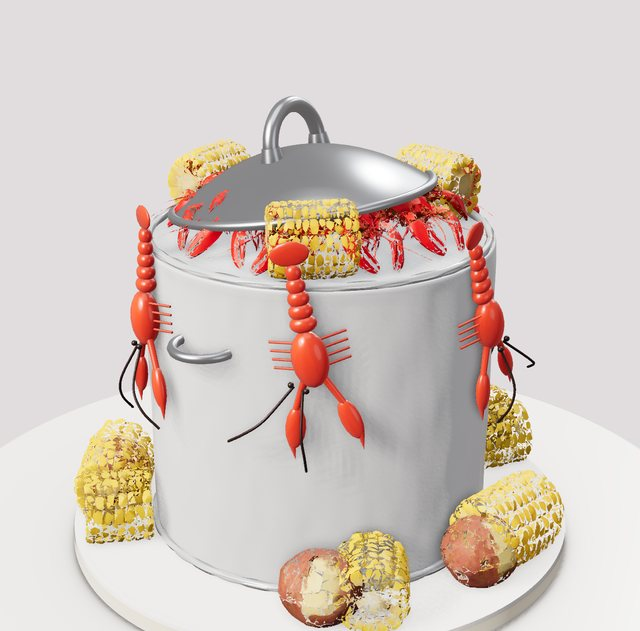
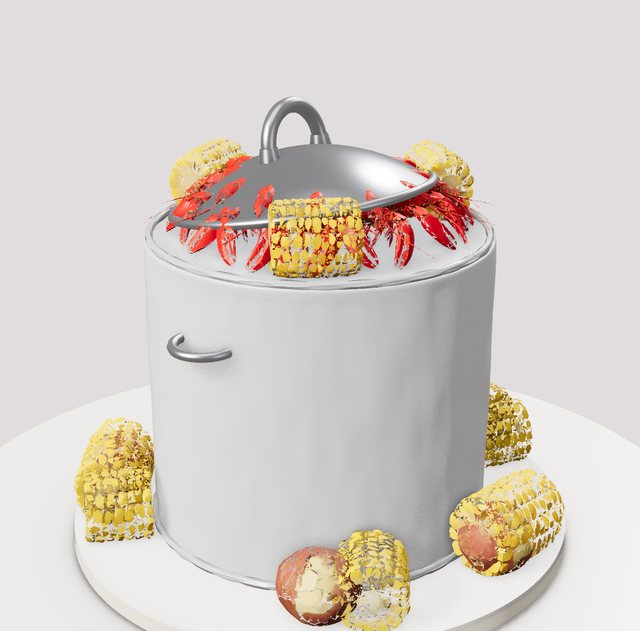
Cow face fills the front, black striped movie base, bigger bee face, crawfish spilling from the pot rim
Claude-Session: https://claude.ai/code/session_016sN14hzH19WJ5zrp8o2QGp

diff --git a/studio.html b/studio.html
@@ -1666,7 +1666,7 @@ THEMES.unshift(
   newTier(7.6,5.8,{color:'#7cc8b8',finish:'fondant',top:'none',bottom:'none',decor:[DC('glitterspheres','cascade',5,{color:'#b0825f',rot:-88,size:378}),DC('glitterspheres','cascade',4,{color:'#f3ead8',rot:-82,size:391}),DC('spheres','cascade',3,{color:'#5fb3a3',rot:-94,size:364}),DC('glitterspheres','cascade',3,{color:'#8c6a52',rot:-88,size:283})]}),
   newTier(6.6,5.6,{color:'#7cc8b8',finish:'fondant',top:'none',bottom:'none',decor:[DC('glitterspheres','cascade',5,{color:'#b0825f',rot:-88,size:364}),DC('glitterspheres','cascade',4,{color:'#f3ead8',rot:-82,size:378}),DC('spheres','cascade',3,{color:'#5fb3a3',rot:-94,size:351}),DC('sprinkles','cascade',220,{mix:['#5fb3a3','#d4ae5a','#c9ccd2','#fbf7f1'],rot:30})]})]}},
  {key:'sig_cow',name:'Pink Bow Cow',tag:SIG,blurb:'A white cow cake with black spots, big cartoon eyes, a pink muzzle with a wide open grin, floppy pink-lined ears, black horns and pink bows.',d:{board:'white',boardColor:'#fbf7f1',topper:'none',tiers:[
-  newTier(8,6.2,{color:'#ffffff',finish:'fondant',print:'cow',printColor:'#1d1b1f',top:'none',bottom:'none',decor:[DC('cowface','band',1,{color:'#f3b6c8',size:300,R:4,rot:55,y:.3}),DC('cowear','band',1,{color:'#f3b6c8',size:200,rot:-25,y:2.6}),DC('cowear','band',1,{color:'#f3b6c8',size:200,rot:135,y:2.6}),DC('cowtop','cluster',1,{color:'#f3a6c0',size:190,center:true,face:95})]})]}},
+  newTier(8,6.2,{color:'#ffffff',finish:'fondant',print:'cow',printColor:'#1d1b1f',top:'none',bottom:'none',decor:[DC('cowface','band',1,{color:'#f3b6c8',size:410,R:4,rot:55,y:.1}),DC('cowear','band',1,{color:'#f3b6c8',size:200,rot:-25,y:2.6}),DC('cowear','band',1,{color:'#f3b6c8',size:200,rot:135,y:2.6}),DC('cowtop','cluster',1,{color:'#f3a6c0',size:190,center:true,face:95})]})]}},
  {key:'sig_pillows',name:'Gold Trim Pillows',tag:SIG,blurb:'A pillow cake: a base pillow trimmed in gold with a ring of ivory roses, a puffy pleated pillow with pinched corners and gold tassels, and a silver rose dome topped with ivory roses.',d:{board:'silver',boardShape:'square',topper:'none',tiers:[
   newTier(10,3.6,{shape:'square',color:'#fbf7f1',finish:'fondant',texture:'smooth',prof:'pillow',top:'rope',pipe:'#d4ae5a',bottom:'rope',bottomColor:'#d4ae5a',decor:[DC('roses','band',16,{color:'#fbf7f1',size:270,y:-1})]}),
   newTier(7.5,3.2,{shape:'square',color:'#fbf7f1',finish:'fondant',texture:'ruffle',prof:'pillow',top:'rope',pipe:'#fbf7f1',bottom:'scrolls',bottomColor:'#d4ae5a',decor:[DC('mx_tassel','band',4,{size:190,rot:45,y:.3})]}),
@@ -1692,13 +1692,13 @@ THEMES.unshift(
  {key:'sig_blocks',name:'Building Block Number',tag:SIG,blurb:'A sunny yellow number 6 with a blue window, a mosaic wall of toy bricks around the side, rainbow sprinkles and bricks on top.',d:{cakeType:'number',number:{text:'6',height:13,layers:3,cake:'vanilla',cream:'#f6c919',style:'frosted',wall:['#e8475f','#2f6fd0','#f2c230','#5cc06c','#2f6fd0','#e8475f','#2a7a3a'],wallH:.95,holeFill:'#2f6fd0'},board:'white',boardTint:'#34405e',numBoard:'round',topper:'none',tiers:[
   newTier(8,4,{decor:[DC('bricks','cluster',11,{size:280,mix:['#e8475f','#2f6fd0','#5cc06c']}),DC('sprinkles','cluster',520,{mix:['#e8475f','#2f6fd0','#5cc06c','#f28a3a','#fbf7f1']})]})]}},
  {key:'sig_movie',name:'Movie Night Popcorn',tag:SIG,blurb:'A red and white striped popcorn tier overflowing with popcorn and a "13" Admit One ticket, over a black and white chevron clapperboard tier with stars.',d:{board:'gold',topper:'none',tiers:[
-  newTier(11,4.8,{color:'#fbf7f1',finish:'fondant',top:'none',bottom:'none',stencil:{pattern:'chevron',color:'#1d1b1f',size:1.4,height:4.6},decor:[DC('plaque','band',1,{color:'#1d1b1f',size:270,R:5.5,rot:55,y:.3}),DC('mx_clapperboard','band',1,{size:320,rot:5}),DC('stars','scatter',14,{mix:['#f38ab0','#5fc8d8','#f2c230'],size:210}),DC('dragees','scatter',20,{color:'#f2c230',size:140})]}),
+  newTier(11,4.8,{color:'#1d1b1f',finish:'fondant',top:'pearls',pipe:'#fbf7f1',bottom:'none',stencil:{pattern:'chevron',color:'#fbf7f1',size:2.2,height:4.6},decor:[DC('plaque','band',1,{color:'#1d1b1f',size:270,R:5.5,rot:55,y:.3}),DC('mx_clapperboard','band',1,{size:320,rot:5}),DC('stars','scatter',14,{mix:['#f38ab0','#5fc8d8','#f2c230'],size:210}),DC('dragees','scatter',20,{color:'#f2c230',size:140})]}),
   newTier(7.8,8.4,{color:'#fbf7f1',finish:'fondant',prof:'bucket',stencil:{pattern:'stripes',color:'#d62839',size:1.3,height:8.2},top:'rope',pipe:'#fbf7f1',bottom:'none',decor:[DC('poplabel','band',1,{color:'#d62839',size:200,R:3.7,rot:55,y:.6}),DC('popcorn','cluster',120,{color:'#f8efd4',size:260}),DC('mx_ticket','cluster',1,{size:480,center:true,face:55}),DC('stars','cluster',5,{mix:['#f38ab0','#5fc8d8','#f2c230'],size:240})]})]}},
  {key:'sig_crawfish',name:'Crawfish Boil Pot',tag:SIG,blurb:'A brushed silver stock pot cake with a tilted lid and loop handles, spilling over with crawfish and corn, with potatoes and corn on the board.',d:{board:'white',boardColor:'#ece5d3',topper:'none',tiers:[
-  newTier(8,7,{color:'#c4c8ce',finish:'fondant',texture:'brushed',top:'rope',pipe:'#aeb2b8',bottom:'rope',bottomColor:'#aeb2b8',decor:[DC('pothandle','band',2,{color:'#c9ccd2',size:160,y:2,rot:95}),DC('potlid2','cluster',1,{color:'#c9ccd2',size:300,center:true}),DC('mx_crawfish','crown',9,{size:340}),DC('mx_corn_cob','crown',3,{size:190,rot:60}),DC('crawhang','band',6,{color:'#d2381e',size:240,y:2.2}),DC('mx_corn_round','cluster',3,{size:170,where:'board',seed:3}),DC('mx_corn_cob','cluster',3,{size:230,where:'board',seed:9}),DC('mx_potato','cluster',5,{size:180,where:'board'})]})]}},
+  newTier(8,7,{color:'#c4c8ce',finish:'fondant',texture:'brushed',top:'rope',pipe:'#aeb2b8',bottom:'rope',bottomColor:'#aeb2b8',decor:[DC('pothandle','band',2,{color:'#c9ccd2',size:160,y:2,rot:95}),DC('potlid2','cluster',1,{color:'#c9ccd2',size:300,center:true}),DC('mx_crawfish','crown',12,{size:380}),DC('mx_corn_cob','crown',3,{size:190,rot:60}),DC('mx_corn_round','cluster',3,{size:170,where:'board',seed:3}),DC('mx_corn_cob','cluster',3,{size:230,where:'board',seed:9}),DC('mx_potato','cluster',5,{size:180,where:'board'})]})]}},
  {key:'sig_bee',name:'Bumble Bee Garden',tag:SIG,blurb:'A fuzzy black piped bee dome with a big round yellow face, googly eyes and a smile, swirl wings and curly antennae, in a garden of piped grass and sugar flowers.',d:{board:'white',boardColor:'#c9d96a',topper:'none',tiers:[
   newTier(13,1.4,{color:'#5cae4a',texture:'grass',top:'none',bottom:'none',decor:[DC('daisies','scatter',12,{color:'#fbf7f1',size:130}),DC('blossoms','scatter',18,{mix:['#f3a6c0','#f2c230','#7fb0e8','#e8475f'],size:130})]}),
-  newTier(10,6,{color:'#1d1b1f',texture:'grass',furLen:150,prof:'half',top:'none',bottom:'none',decor:[DC('beeface','band',1,{color:'#ffd21f',size:370,R:4.3,rot:55,y:-.3}),DC('beetop','cluster',1,{color:'#ffd21f',size:260,center:true,face:95})]})]}},
+  newTier(10,6,{color:'#1d1b1f',texture:'grass',furLen:150,prof:'half',top:'none',bottom:'none',decor:[DC('beeface','band',1,{color:'#ffd21f',size:405,R:4.3,rot:55,y:-.15}),DC('beetop','cluster',1,{color:'#ffd21f',size:260,center:true,face:95})]})]}},
  {key:'sig_moneybag',name:'Money Bag Birthday',tag:SIG,blurb:'A red money bag cake gathered up like a real sack, tied at the neck with a thick black rope knot and hanging ties, a big gold dollar sign, and cash and gold dollar signs spilling out of the ruffled opening.',d:{board:'white',boardColor:'#e9eaec',topper:'none',tiers:[
   newTier(9.4,7.4,{color:'#b5321f',finish:'royal',prof:'sack',texture:'gathers',top:'none',bottom:'none',decor:[DC('dollarface','band',1,{color:'#d4ae5a',size:320,R:4.7,rot:55,y:-.5}),DC('mx_cash_bundle','cluster',2,{size:320,where:'board',seed:6})]}),
   newTier(4.2,1,{color:'#a82e1c',finish:'royal',texture:'gathers',gFull:true,top:'rope',pipe:'#1d1b1f',bottom:'rope',bottomColor:'#1d1b1f',decor:[DC('ropeknot','band',1,{color:'#1d1b1f',size:200,rot:92,y:.1})]}),

diff --git a/tools/signature-decor.js b/tools/signature-decor.js
@@ -331,7 +331,7 @@ THEMES.unshift(
   newTier(7.6,5.8,{color:'#7cc8b8',finish:'fondant',top:'none',bottom:'none',decor:[DC('glitterspheres','cascade',5,{color:'#b0825f',rot:-88,size:378}),DC('glitterspheres','cascade',4,{color:'#f3ead8',rot:-82,size:391}),DC('spheres','cascade',3,{color:'#5fb3a3',rot:-94,size:364}),DC('glitterspheres','cascade',3,{color:'#8c6a52',rot:-88,size:283})]}),
   newTier(6.6,5.6,{color:'#7cc8b8',finish:'fondant',top:'none',bottom:'none',decor:[DC('glitterspheres','cascade',5,{color:'#b0825f',rot:-88,size:364}),DC('glitterspheres','cascade',4,{color:'#f3ead8',rot:-82,size:378}),DC('spheres','cascade',3,{color:'#5fb3a3',rot:-94,size:351}),DC('sprinkles','cascade',220,{mix:['#5fb3a3','#d4ae5a','#c9ccd2','#fbf7f1'],rot:30})]})]}},
  {key:'sig_cow',name:'Pink Bow Cow',tag:SIG,blurb:'A white cow cake with black spots, big cartoon eyes, a pink muzzle with a wide open grin, floppy pink-lined ears, black horns and pink bows.',d:{board:'white',boardColor:'#fbf7f1',topper:'none',tiers:[
-  newTier(8,6.2,{color:'#ffffff',finish:'fondant',print:'cow',printColor:'#1d1b1f',top:'none',bottom:'none',decor:[DC('cowface','band',1,{color:'#f3b6c8',size:300,R:4,rot:55,y:.3}),DC('cowear','band',1,{color:'#f3b6c8',size:200,rot:-25,y:2.6}),DC('cowear','band',1,{color:'#f3b6c8',size:200,rot:135,y:2.6}),DC('cowtop','cluster',1,{color:'#f3a6c0',size:190,center:true,face:95})]})]}},
+  newTier(8,6.2,{color:'#ffffff',finish:'fondant',print:'cow',printColor:'#1d1b1f',top:'none',bottom:'none',decor:[DC('cowface','band',1,{color:'#f3b6c8',size:410,R:4,rot:55,y:.1}),DC('cowear','band',1,{color:'#f3b6c8',size:200,rot:-25,y:2.6}),DC('cowear','band',1,{color:'#f3b6c8',size:200,rot:135,y:2.6}),DC('cowtop','cluster',1,{color:'#f3a6c0',size:190,center:true,face:95})]})]}},
  {key:'sig_pillows',name:'Gold Trim Pillows',tag:SIG,blurb:'A pillow cake: a base pillow trimmed in gold with a ring of ivory roses, a puffy pleated pillow with pinched corners and gold tassels, and a silver rose dome topped with ivory roses.',d:{board:'silver',boardShape:'square',topper:'none',tiers:[
   newTier(10,3.6,{shape:'square',color:'#fbf7f1',finish:'fondant',texture:'smooth',prof:'pillow',top:'rope',pipe:'#d4ae5a',bottom:'rope',bottomColor:'#d4ae5a',decor:[DC('roses','band',16,{color:'#fbf7f1',size:270,y:-1})]}),
   newTier(7.5,3.2,{shape:'square',color:'#fbf7f1',finish:'fondant',texture:'ruffle',prof:'pillow',top:'rope',pipe:'#fbf7f1',bottom:'scrolls',bottomColor:'#d4ae5a',decor:[DC('mx_tassel','band',4,{size:190,rot:45,y:.3})]}),
@@ -357,13 +357,13 @@ THEMES.unshift(
  {key:'sig_blocks',name:'Building Block Number',tag:SIG,blurb:'A sunny yellow number 6 with a blue window, a mosaic wall of toy bricks around the side, rainbow sprinkles and bricks on top.',d:{cakeType:'number',number:{text:'6',height:13,layers:3,cake:'vanilla',cream:'#f6c919',style:'frosted',wall:['#e8475f','#2f6fd0','#f2c230','#5cc06c','#2f6fd0','#e8475f','#2a7a3a'],wallH:.95,holeFill:'#2f6fd0'},board:'white',boardTint:'#34405e',numBoard:'round',topper:'none',tiers:[
   newTier(8,4,{decor:[DC('bricks','cluster',11,{size:280,mix:['#e8475f','#2f6fd0','#5cc06c']}),DC('sprinkles','cluster',520,{mix:['#e8475f','#2f6fd0','#5cc06c','#f28a3a','#fbf7f1']})]})]}},
  {key:'sig_movie',name:'Movie Night Popcorn',tag:SIG,blurb:'A red and white striped popcorn tier overflowing with popcorn and a "13" Admit One ticket, over a black and white chevron clapperboard tier with stars.',d:{board:'gold',topper:'none',tiers:[
-  newTier(11,4.8,{color:'#fbf7f1',finish:'fondant',top:'none',bottom:'none',stencil:{pattern:'chevron',color:'#1d1b1f',size:1.4,height:4.6},decor:[DC('plaque','band',1,{color:'#1d1b1f',size:270,R:5.5,rot:55,y:.3}),DC('mx_clapperboard','band',1,{size:320,rot:5}),DC('stars','scatter',14,{mix:['#f38ab0','#5fc8d8','#f2c230'],size:210}),DC('dragees','scatter',20,{color:'#f2c230',size:140})]}),
+  newTier(11,4.8,{color:'#1d1b1f',finish:'fondant',top:'pearls',pipe:'#fbf7f1',bottom:'none',stencil:{pattern:'chevron',color:'#fbf7f1',size:2.2,height:4.6},decor:[DC('plaque','band',1,{color:'#1d1b1f',size:270,R:5.5,rot:55,y:.3}),DC('mx_clapperboard','band',1,{size:320,rot:5}),DC('stars','scatter',14,{mix:['#f38ab0','#5fc8d8','#f2c230'],size:210}),DC('dragees','scatter',20,{color:'#f2c230',size:140})]}),
   newTier(7.8,8.4,{color:'#fbf7f1',finish:'fondant',prof:'bucket',stencil:{pattern:'stripes',color:'#d62839',size:1.3,height:8.2},top:'rope',pipe:'#fbf7f1',bottom:'none',decor:[DC('poplabel','band',1,{color:'#d62839',size:200,R:3.7,rot:55,y:.6}),DC('popcorn','cluster',120,{color:'#f8efd4',size:260}),DC('mx_ticket','cluster',1,{size:480,center:true,face:55}),DC('stars','cluster',5,{mix:['#f38ab0','#5fc8d8','#f2c230'],size:240})]})]}},
  {key:'sig_crawfish',name:'Crawfish Boil Pot',tag:SIG,blurb:'A brushed silver stock pot cake with a tilted lid and loop handles, spilling over with crawfish and corn, with potatoes and corn on the board.',d:{board:'white',boardColor:'#ece5d3',topper:'none',tiers:[
-  newTier(8,7,{color:'#c4c8ce',finish:'fondant',texture:'brushed',top:'rope',pipe:'#aeb2b8',bottom:'rope',bottomColor:'#aeb2b8',decor:[DC('pothandle','band',2,{color:'#c9ccd2',size:160,y:2,rot:95}),DC('potlid2','cluster',1,{color:'#c9ccd2',size:300,center:true}),DC('mx_crawfish','crown',9,{size:340}),DC('mx_corn_cob','crown',3,{size:190,rot:60}),DC('crawhang','band',6,{color:'#d2381e',size:240,y:2.2}),DC('mx_corn_round','cluster',3,{size:170,where:'board',seed:3}),DC('mx_corn_cob','cluster',3,{size:230,where:'board',seed:9}),DC('mx_potato','cluster',5,{size:180,where:'board'})]})]}},
+  newTier(8,7,{color:'#c4c8ce',finish:'fondant',texture:'brushed',top:'rope',pipe:'#aeb2b8',bottom:'rope',bottomColor:'#aeb2b8',decor:[DC('pothandle','band',2,{color:'#c9ccd2',size:160,y:2,rot:95}),DC('potlid2','cluster',1,{color:'#c9ccd2',size:300,center:true}),DC('mx_crawfish','crown',12,{size:380}),DC('mx_corn_cob','crown',3,{size:190,rot:60}),DC('mx_corn_round','cluster',3,{size:170,where:'board',seed:3}),DC('mx_corn_cob','cluster',3,{size:230,where:'board',seed:9}),DC('mx_potato','cluster',5,{size:180,where:'board'})]})]}},
  {key:'sig_bee',name:'Bumble Bee Garden',tag:SIG,blurb:'A fuzzy black piped bee dome with a big round yellow face, googly eyes and a smile, swirl wings and curly antennae, in a garden of piped grass and sugar flowers.',d:{board:'white',boardColor:'#c9d96a',topper:'none',tiers:[
   newTier(13,1.4,{color:'#5cae4a',texture:'grass',top:'none',bottom:'none',decor:[DC('daisies','scatter',12,{color:'#fbf7f1',size:130}),DC('blossoms','scatter',18,{mix:['#f3a6c0','#f2c230','#7fb0e8','#e8475f'],size:130})]}),
-  newTier(10,6,{color:'#1d1b1f',texture:'grass',furLen:150,prof:'half',top:'none',bottom:'none',decor:[DC('beeface','band',1,{color:'#ffd21f',size:370,R:4.3,rot:55,y:-.3}),DC('beetop','cluster',1,{color:'#ffd21f',size:260,center:true,face:95})]})]}},
+  newTier(10,6,{color:'#1d1b1f',texture:'grass',furLen:150,prof:'half',top:'none',bottom:'none',decor:[DC('beeface','band',1,{color:'#ffd21f',size:405,R:4.3,rot:55,y:-.15}),DC('beetop','cluster',1,{color:'#ffd21f',size:260,center:true,face:95})]})]}},
  {key:'sig_moneybag',name:'Money Bag Birthday',tag:SIG,blurb:'A red money bag cake gathered up like a real sack, tied at the neck with a thick black rope knot and hanging ties, a big gold dollar sign, and cash and gold dollar signs spilling out of the ruffled opening.',d:{board:'white',boardColor:'#e9eaec',topper:'none',tiers:[
   newTier(9.4,7.4,{color:'#b5321f',finish:'royal',prof:'sack',texture:'gathers',top:'none',bottom:'none',decor:[DC('dollarface','band',1,{color:'#d4ae5a',size:320,R:4.7,rot:55,y:-.5}),DC('mx_cash_bundle','cluster',2,{size:320,where:'board',seed:6})]}),
   newTier(4.2,1,{color:'#a82e1c',finish:'royal',texture:'gathers',gFull:true,top:'rope',pipe:'#1d1b1f',bottom:'rope',bottomColor:'#1d1b1f',decor:[DC('ropeknot','band',1,{color:'#1d1b1f',size:200,rot:92,y:.1})]}),

diff --git a/tools/sig-themes.js b/tools/sig-themes.js
@@ -22,7 +22,7 @@ THEMES.unshift(
   newTier(7.6,5.8,{color:'#7cc8b8',finish:'fondant',top:'none',bottom:'none',decor:[DC('glitterspheres','cascade',5,{color:'#b0825f',rot:-88,size:378}),DC('glitterspheres','cascade',4,{color:'#f3ead8',rot:-82,size:391}),DC('spheres','cascade',3,{color:'#5fb3a3',rot:-94,size:364}),DC('glitterspheres','cascade',3,{color:'#8c6a52',rot:-88,size:283})]}),
   newTier(6.6,5.6,{color:'#7cc8b8',finish:'fondant',top:'none',bottom:'none',decor:[DC('glitterspheres','cascade',5,{color:'#b0825f',rot:-88,size:364}),DC('glitterspheres','cascade',4,{color:'#f3ead8',rot:-82,size:378}),DC('spheres','cascade',3,{color:'#5fb3a3',rot:-94,size:351}),DC('sprinkles','cascade',220,{mix:['#5fb3a3','#d4ae5a','#c9ccd2','#fbf7f1'],rot:30})]})]}},
  {key:'sig_cow',name:'Pink Bow Cow',tag:SIG,blurb:'A white cow cake with black spots, big cartoon eyes, a pink muzzle with a wide open grin, floppy pink-lined ears, black horns and pink bows.',d:{board:'white',boardColor:'#fbf7f1',topper:'none',tiers:[
-  newTier(8,6.2,{color:'#ffffff',finish:'fondant',print:'cow',printColor:'#1d1b1f',top:'none',bottom:'none',decor:[DC('cowface','band',1,{color:'#f3b6c8',size:300,R:4,rot:55,y:.3}),DC('cowear','band',1,{color:'#f3b6c8',size:200,rot:-25,y:2.6}),DC('cowear','band',1,{color:'#f3b6c8',size:200,rot:135,y:2.6}),DC('cowtop','cluster',1,{color:'#f3a6c0',size:190,center:true,face:95})]})]}},
+  newTier(8,6.2,{color:'#ffffff',finish:'fondant',print:'cow',printColor:'#1d1b1f',top:'none',bottom:'none',decor:[DC('cowface','band',1,{color:'#f3b6c8',size:410,R:4,rot:55,y:.1}),DC('cowear','band',1,{color:'#f3b6c8',size:200,rot:-25,y:2.6}),DC('cowear','band',1,{color:'#f3b6c8',size:200,rot:135,y:2.6}),DC('cowtop','cluster',1,{color:'#f3a6c0',size:190,center:true,face:95})]})]}},
  {key:'sig_pillows',name:'Gold Trim Pillows',tag:SIG,blurb:'A pillow cake: a base pillow trimmed in gold with a ring of ivory roses, a puffy pleated pillow with pinched corners and gold tassels, and a silver rose dome topped with ivory roses.',d:{board:'silver',boardShape:'square',topper:'none',tiers:[
   newTier(10,3.6,{shape:'square',color:'#fbf7f1',finish:'fondant',texture:'smooth',prof:'pillow',top:'rope',pipe:'#d4ae5a',bottom:'rope',bottomColor:'#d4ae5a',decor:[DC('roses','band',16,{color:'#fbf7f1',size:270,y:-1})]}),
   newTier(7.5,3.2,{shape:'square',color:'#fbf7f1',finish:'fondant',texture:'ruffle',prof:'pillow',top:'rope',pipe:'#fbf7f1',bottom:'scrolls',bottomColor:'#d4ae5a',decor:[DC('mx_tassel','band',4,{size:190,rot:45,y:.3})]}),
@@ -48,13 +48,13 @@ THEMES.unshift(
  {key:'sig_blocks',name:'Building Block Number',tag:SIG,blurb:'A sunny yellow number 6 with a blue window, a mosaic wall of toy bricks around the side, rainbow sprinkles and bricks on top.',d:{cakeType:'number',number:{text:'6',height:13,layers:3,cake:'vanilla',cream:'#f6c919',style:'frosted',wall:['#e8475f','#2f6fd0','#f2c230','#5cc06c','#2f6fd0','#e8475f','#2a7a3a'],wallH:.95,holeFill:'#2f6fd0'},board:'white',boardTint:'#34405e',numBoard:'round',topper:'none',tiers:[
   newTier(8,4,{decor:[DC('bricks','cluster',11,{size:280,mix:['#e8475f','#2f6fd0','#5cc06c']}),DC('sprinkles','cluster',520,{mix:['#e8475f','#2f6fd0','#5cc06c','#f28a3a','#fbf7f1']})]})]}},
  {key:'sig_movie',name:'Movie Night Popcorn',tag:SIG,blurb:'A red and white striped popcorn tier overflowing with popcorn and a "13" Admit One ticket, over a black and white chevron clapperboard tier with stars.',d:{board:'gold',topper:'none',tiers:[
-  newTier(11,4.8,{color:'#fbf7f1',finish:'fondant',top:'none',bottom:'none',stencil:{pattern:'chevron',color:'#1d1b1f',size:1.4,height:4.6},decor:[DC('plaque','band',1,{color:'#1d1b1f',size:270,R:5.5,rot:55,y:.3}),DC('mx_clapperboard','band',1,{size:320,rot:5}),DC('stars','scatter',14,{mix:['#f38ab0','#5fc8d8','#f2c230'],size:210}),DC('dragees','scatter',20,{color:'#f2c230',size:140})]}),
+  newTier(11,4.8,{color:'#1d1b1f',finish:'fondant',top:'pearls',pipe:'#fbf7f1',bottom:'none',stencil:{pattern:'chevron',color:'#fbf7f1',size:2.2,height:4.6},decor:[DC('plaque','band',1,{color:'#1d1b1f',size:270,R:5.5,rot:55,y:.3}),DC('mx_clapperboard','band',1,{size:320,rot:5}),DC('stars','scatter',14,{mix:['#f38ab0','#5fc8d8','#f2c230'],size:210}),DC('dragees','scatter',20,{color:'#f2c230',size:140})]}),
   newTier(7.8,8.4,{color:'#fbf7f1',finish:'fondant',prof:'bucket',stencil:{pattern:'stripes',color:'#d62839',size:1.3,height:8.2},top:'rope',pipe:'#fbf7f1',bottom:'none',decor:[DC('poplabel','band',1,{color:'#d62839',size:200,R:3.7,rot:55,y:.6}),DC('popcorn','cluster',120,{color:'#f8efd4',size:260}),DC('mx_ticket','cluster',1,{size:480,center:true,face:55}),DC('stars','cluster',5,{mix:['#f38ab0','#5fc8d8','#f2c230'],size:240})]})]}},
  {key:'sig_crawfish',name:'Crawfish Boil Pot',tag:SIG,blurb:'A brushed silver stock pot cake with a tilted lid and loop handles, spilling over with crawfish and corn, with potatoes and corn on the board.',d:{board:'white',boardColor:'#ece5d3',topper:'none',tiers:[
-  newTier(8,7,{color:'#c4c8ce',finish:'fondant',texture:'brushed',top:'rope',pipe:'#aeb2b8',bottom:'rope',bottomColor:'#aeb2b8',decor:[DC('pothandle','band',2,{color:'#c9ccd2',size:160,y:2,rot:95}),DC('potlid2','cluster',1,{color:'#c9ccd2',size:300,center:true}),DC('mx_crawfish','crown',9,{size:340}),DC('mx_corn_cob','crown',3,{size:190,rot:60}),DC('crawhang','band',6,{color:'#d2381e',size:240,y:2.2}),DC('mx_corn_round','cluster',3,{size:170,where:'board',seed:3}),DC('mx_corn_cob','cluster',3,{size:230,where:'board',seed:9}),DC('mx_potato','cluster',5,{size:180,where:'board'})]})]}},
+  newTier(8,7,{color:'#c4c8ce',finish:'fondant',texture:'brushed',top:'rope',pipe:'#aeb2b8',bottom:'rope',bottomColor:'#aeb2b8',decor:[DC('pothandle','band',2,{color:'#c9ccd2',size:160,y:2,rot:95}),DC('potlid2','cluster',1,{color:'#c9ccd2',size:300,center:true}),DC('mx_crawfish','crown',12,{size:380}),DC('mx_corn_cob','crown',3,{size:190,rot:60}),DC('mx_corn_round','cluster',3,{size:170,where:'board',seed:3}),DC('mx_corn_cob','cluster',3,{size:230,where:'board',seed:9}),DC('mx_potato','cluster',5,{size:180,where:'board'})]})]}},
  {key:'sig_bee',name:'Bumble Bee Garden',tag:SIG,blurb:'A fuzzy black piped bee dome with a big round yellow face, googly eyes and a smile, swirl wings and curly antennae, in a garden of piped grass and sugar flowers.',d:{board:'white',boardColor:'#c9d96a',topper:'none',tiers:[
   newTier(13,1.4,{color:'#5cae4a',texture:'grass',top:'none',bottom:'none',decor:[DC('daisies','scatter',12,{color:'#fbf7f1',size:130}),DC('blossoms','scatter',18,{mix:['#f3a6c0','#f2c230','#7fb0e8','#e8475f'],size:130})]}),
-  newTier(10,6,{color:'#1d1b1f',texture:'grass',furLen:150,prof:'half',top:'none',bottom:'none',decor:[DC('beeface','band',1,{color:'#ffd21f',size:370,R:4.3,rot:55,y:-.3}),DC('beetop','cluster',1,{color:'#ffd21f',size:260,center:true,face:95})]})]}},
+  newTier(10,6,{color:'#1d1b1f',texture:'grass',furLen:150,prof:'half',top:'none',bottom:'none',decor:[DC('beeface','band',1,{color:'#ffd21f',size:405,R:4.3,rot:55,y:-.15}),DC('beetop','cluster',1,{color:'#ffd21f',size:260,center:true,face:95})]})]}},
  {key:'sig_moneybag',name:'Money Bag Birthday',tag:SIG,blurb:'A red money bag cake gathered up like a real sack, tied at the neck with a thick black rope knot and hanging ties, a big gold dollar sign, and cash and gold dollar signs spilling out of the ruffled opening.',d:{board:'white',boardColor:'#e9eaec',topper:'none',tiers:[
   newTier(9.4,7.4,{color:'#b5321f',finish:'royal',prof:'sack',texture:'gathers',top:'none',bottom:'none',decor:[DC('dollarface','band',1,{color:'#d4ae5a',size:320,R:4.7,rot:55,y:-.5}),DC('mx_cash_bundle','cluster',2,{size:320,where:'board',seed:6})]}),
   newTier(4.2,1,{color:'#a82e1c',finish:'royal',texture:'gathers',gFull:true,top:'rope',pipe:'#1d1b1f',bottom:'rope',bottomColor:'#1d1b1f',decor:[DC('ropeknot','band',1,{color:'#1d1b1f',size:200,rot:92,y:.1})]}),
